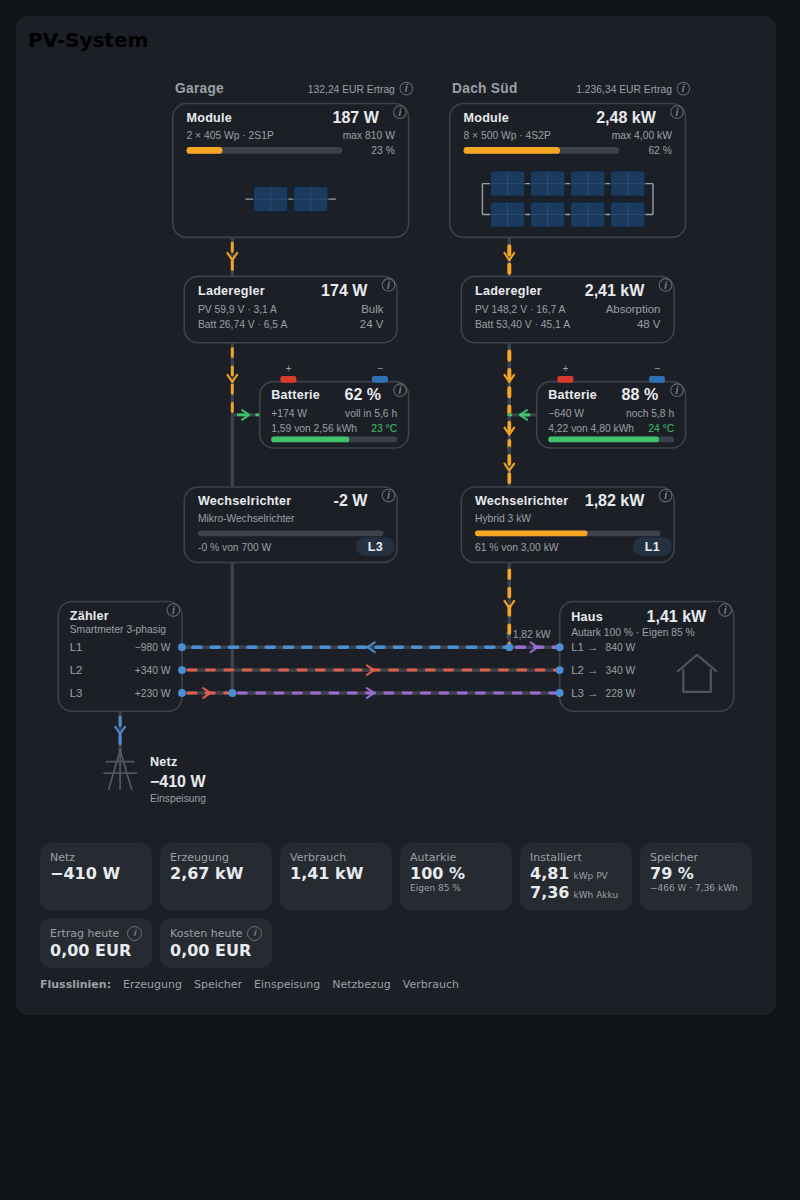
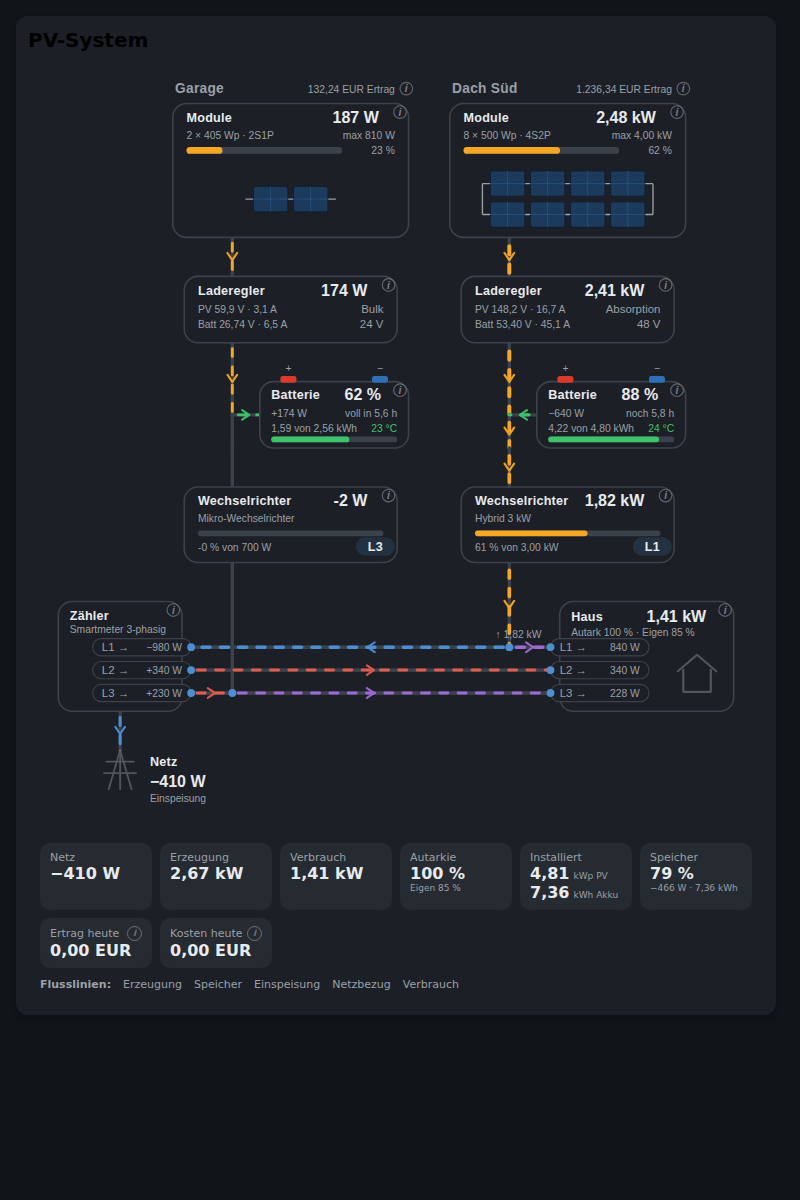
Phasenzeilen in Pillen auf der Kastenkante (1.1.8)
Die Zahl einer Phase stand bisher nur zufällig auf der Höhe ihrer Leitung.
Jetzt sitzt sie in einer Pille, die auf der Kante des Kastens liegt: Acht
Pixel von ihr ragen hinaus, die Linie des Kastens ist dort unterbrochen,
und genau an dieser Kante endet die Phasenleitung mit ihrem Anschlusspunkt.
Die Zugehörigkeit steht damit im Bild, statt erraten werden zu müssen.

Beide Kästen lesen sich dabei gleich - "L1 → −980 W" am Zähler wie
"L1 → 840 W" im Haus. Dafür bekam auch der Zähler den Richtungspfeil; er
brauchte ihn ohnehin, weil dort eine Zahl mit Vorzeichen steht.

Die Maße: 86 Pixel breit, 15 hoch, 8 davon außerhalb des Kastens. Die
Breite trägt den schlimmsten Fall, den eine Hausanlage zeigt - "L1 →
−10,56 kW" passt mit Luft zwischen Pfeil und Zahl, auf allen drei Phasen
gleichzeitig geprüft. Die Höhe lässt über der Zehn-Pixel-Schrift rund einen
Pixel Reserve; bei vierzehn wäre keine mehr da, und ein Thema mit etwas
größerer Schrift liefe über.

Weil der Pfeil den Platz im Zählerkasten übernimmt, braucht die Pille die
Kastenbreite nicht mehr: Sie ist von 122 auf 86 Pixel geschrumpft und lässt
links dreißig Pixel frei, wo vorher acht waren.

Die Vorschaubilder der Liesmich sind neu gerendert.

Claude-Session: https://claude.ai/code/session_018aqrMMMkeVs9NZNXqKcGY2

diff --git a/custom_components/pv_system/frontend/pv-system-card.js b/custom_components/pv_system/frontend/pv-system-card.js
@@ -60,6 +60,18 @@ const BATTERIE_B = 130;   // Breite des Batteriekastens
 // Phasen. Beide sind Klemmkästen - die Phasen enden an ihrer Kante, statt sie
 // zu kreuzen. Das Netz steht darunter und gehört nicht mehr ins Haus.
 const ZAEHLER_B = 108;    // Breite des Zählerkastens
+// Die Phasenzeilen sitzen in einer Pille auf der Kastenkante. Ein Stück von
+// ihr ragt hinaus: Dort endet die Leitung, dort sitzt der Anschlusspunkt, und
+// dort ist die Linie des Kastens unterbrochen. Damit gehört jede Zahl sichtbar
+// zu ihrer Phase, statt nur zufällig auf deren Höhe zu stehen.
+//
+// Die Breite trägt den schlimmsten Fall, den eine Hausanlage zeigt:
+// "L1 → −10,56 kW" passt mit Luft zwischen Pfeil und Zahl. Die Höhe hat über
+// der 10-Pixel-Schrift noch rund einen Pixel Reserve - genug für ein Thema,
+// das die Schrift etwas größer stellt.
+const PILLE_B = 86;       // Gesamtbreite, Überstand eingerechnet
+const PILLE_H = 15;       // Höhe
+const PILLE_UEBER = 8;    // wie weit sie über die Kastenkante hinausragt
 const HAUS_B = 152;       // Breite des Hauskastens
 const BAND_OBEN = 40;     // Titel und Modell über der ersten Phasenzeile
 const BAND_UNTEN = 16;    // Luft unter der letzten Phasenzeile
@@ -547,6 +559,15 @@ class PvSystemCard extends HTMLElement {
 
       /* Der Füllstandsbalken der Batterie - dieselben Stufen wie in Home
          Assistant: unter zwanzig Prozent rot, unter fünfzig orange. */
+      /* Die Phasenpille auf der Kastenkante. Deckend gefüllt und nach dem
+         Rahmen gezeichnet: Die Linie des Kastens endet an ihr und beginnt
+         dahinter wieder, statt quer hindurchzulaufen. */
+      .pille {
+        fill: var(--card-background-color, #fff);
+        stroke: var(--divider-color, #cfd8dc);
+        stroke-width: 1;
+      }
+
       .f-voll { fill: var(--pv-akku, #3ec26a); }
       .f-halb { fill: var(--pv-warm, #e8912a); }
       .f-leer { fill: var(--pv-bezug, #e05c4b); }
@@ -1307,8 +1328,8 @@ class PvSystemCard extends HTMLElement {
 
     for (let i = 0; i < g.phasen; i++) {
       const y = g.yBus + i * M.busAbstand;
-      const links = g.zaehlerX + ZAEHLER_B;
-      const rechts = g.hausX;
+      const links = g.zaehlerX + ZAEHLER_B + PILLE_UEBER;
+      const rechts = g.hausX - PILLE_UEBER;
       // Die Knotenpunkte von links nach rechts. Ein Wechselrichter außerhalb
       // der Strecke - bei vielen Anlagen steht der Zähler unter einer Spalte -
       // erweitert sie einfach.
@@ -1364,8 +1385,8 @@ class PvSystemCard extends HTMLElement {
    */
   _pfeilstellen() {
     const g = this._geo;
-    const links = g.zaehlerX + ZAEHLER_B;
-    const rechts = g.hausX;
+    const links = g.zaehlerX + ZAEHLER_B + PILLE_UEBER;
+    const rechts = g.hausX - PILLE_UEBER;
     const grenzen = [
       ...new Set([
         links,
@@ -1396,11 +1417,10 @@ class PvSystemCard extends HTMLElement {
 
   _untenZeichnen(leitungen, bloecke) {
     const g = this._geo;
-    const links = g.zaehlerX + ZAEHLER_B;
 
     /* --- Zähler -------------------------------------------------------- */
-    // Ein Klemmkasten neben den Phasen: Die Leitungen enden an seiner Kante,
-    // statt ihn zu kreuzen. Auf der Höhe jeder Phase steht dort, was diese
+    // Ein Klemmkasten neben den Phasen: Die Leitungen enden an den Pillen auf
+    // seiner Kante, statt ihn zu kreuzen. In jeder Pille steht, was diese
     // Phase am Zähler gerade führt - mit Vorzeichen, so wie das Gerät zählt.
     const zaehler = this._kasten(
       bloecke, "grid:", g.zaehlerX, g.bandY, ZAEHLER_B, g.bandH
@@ -1415,15 +1435,26 @@ class PvSystemCard extends HTMLElement {
     if (g.zeigePhasen) {
       for (let i = 0; i < g.phasen; i++) {
         const y = g.yBus + i * M.busAbstand;
+        // Spiegelbildlich zum Haus, Zeichen für Zeichen dasselbe: "L1 →"
+        // und dahinter der Wert. Am Zähler zeigt der Pfeil auf die Leitung
+        // hinaus, im Haus von ihr herein - die Richtung steht im Vorzeichen.
+        const pilleX = g.zaehlerX + ZAEHLER_B + PILLE_UEBER - PILLE_B;
+        zaehler.appendChild(
+          e("rect", {
+            class: "pille",
+            x: pilleX, y: y - PILLE_H / 2,
+            width: PILLE_B, height: PILLE_H, rx: PILLE_H / 2,
+          })
+        );
         zaehler.appendChild(
           e("text", {
-            class: "klein", x: g.zaehlerX + 10, y: y + 3.5, text: `L${i + 1}`,
+            class: "klein", x: pilleX + 8, y: y + 3.5, text: `L${i + 1} \u2192`,
           })
         );
         this._ref(
           zaehler, `meter:${i}`,
           e("text", {
-            class: "mini rechts", x: g.zaehlerX + ZAEHLER_B - 10, y: y + 3.5,
+            class: "mini rechts", x: pilleX + PILLE_B - 8, y: y + 3.5,
           })
         );
       }
@@ -1456,23 +1487,35 @@ class PvSystemCard extends HTMLElement {
       haus, "house:quoten",
       e("text", { class: "mini", x: g.hausX + 10, y: g.bandY + 30 })
     );
-    // Die Phasenwerte stehen links, zur Leitung hin, mit einem Pfeil dazwischen:
-    // "L1 → 840 W" liest sich in der Richtung, in die der Strom fließt, und
-    // sagt gleich mit, dass es um einen Zufluss geht und nicht um einen Namen.
-    // Rechts wird dadurch Platz frei - dort steht das Haus.
+    // Die Phasenwerte stehen links, zur Leitung hin, in derselben Pille wie am
+    // Zähler: "L1 → 840 W" liest sich in der Richtung, in die der Strom
+    // fließt, und sagt gleich mit, dass es um einen Zufluss geht und nicht um
+    // einen Namen. Rechts wird dadurch Platz frei - dort steht das Haus.
     const zeilen = g.zeigePhasen ? g.phasen : 1;
     for (let i = 0; i < zeilen; i++) {
       const y = g.yBus + i * M.busAbstand;
+      const pilleX = g.hausX - PILLE_UEBER;
       if (g.zeigePhasen) {
         haus.appendChild(
+          e("rect", {
+            class: "pille",
+            x: pilleX, y: y - PILLE_H / 2,
+            width: PILLE_B, height: PILLE_H, rx: PILLE_H / 2,
+          })
+        );
+        haus.appendChild(
           e("text", {
-            class: "klein", x: g.hausX + 10, y: y + 3.5, text: `L${i + 1} \u2192`,
+            class: "klein", x: pilleX + 8, y: y + 3.5, text: `L${i + 1} \u2192`,
           })
         );
       }
       this._ref(
         haus, `haus:${i}`,
-        e("text", { class: "mini", x: g.hausX + (g.zeigePhasen ? 40 : 10), y: y + 3.5 })
+        e("text", {
+          class: g.zeigePhasen ? "mini rechts" : "mini",
+          x: g.zeigePhasen ? pilleX + PILLE_B - 8 : g.hausX + 10,
+          y: y + 3.5,
+        })
       );
     }
     haus.appendChild(
@@ -1499,10 +1542,16 @@ class PvSystemCard extends HTMLElement {
 
     /* --- Klemmpunkte an beiden Kästen ---------------------------------- */
     // Nach den Kästen gezeichnet, damit sie auf der Kante sitzen statt
-    // dahinter zu verschwinden. Sie sagen: Hier ist die Phase angeschlossen.
+    // dahinter zu verschwinden. Sie sitzen auf der äußeren Kante der Pille,
+    // nicht auf der des Kastens: Dort endet die Leitung, und dort sagt der
+    // Punkt, dass die Phase angeschlossen ist.
     for (let i = 0; i < g.phasen; i++) {
       const y = g.yBus + i * M.busAbstand;
-      for (const x of [links, g.hausX]) {
+      const enden = [
+        g.zaehlerX + ZAEHLER_B + PILLE_UEBER,
+        g.hausX - PILLE_UEBER,
+      ];
+      for (const x of enden) {
         bloecke.appendChild(
           e("circle", { cx: x, cy: y, r: 3.4, fill: "var(--pv-netz, #4a8fd4)" })
         );

diff --git a/README.md b/README.md
@@ -200,6 +200,12 @@ ein kleines **ⓘ** in der Ecke – auf dem Telefon sagt sonst nichts, welcher
 Kasten sich öffnen lässt. Werte mit gepunkteter Unterstreichung führen zur
 Original-Entität.
 
+Die **Phasenzeilen sitzen in Pillen auf der Kastenkante**, im Zähler wie im
+Haus: `L1 →  −980 W`. Ein Stück der Pille ragt hinaus, die Linie des Kastens
+ist dort unterbrochen, und genau an dieser Kante endet die Phasenleitung mit
+ihrem Anschlusspunkt. Damit gehört jede Zahl sichtbar zu ihrer Leitung, statt
+nur zufällig auf deren Höhe zu stehen.
+
 Im **Batteriekasten** sagen zwei Farben, ob alles in Ordnung ist. Der
 Füllstandsbalken wechselt wie die Balken in Home Assistant: unter 50 % orange,
 unter 20 % rot. Die Zellentemperatur steht blau unter 5 °C, grün bis 30 °C,
